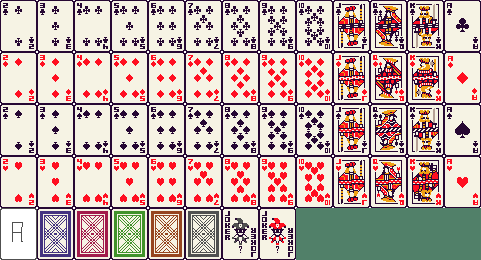
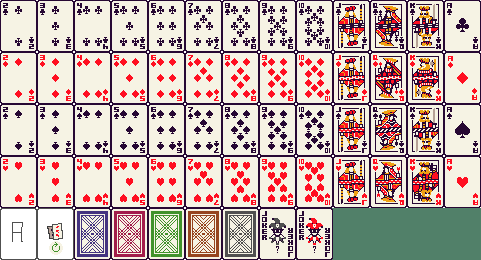
feat: stock and waste piles

Changed region(s): [[0.0624, 0.8, 0.5301, 1.0], [0.5613, 0.8, 0.7173, 1.0]]

diff --git a/src/game.c b/src/game.c
@@ -9,6 +9,7 @@
 #include "raymath.h"
 #include "rules.h"
 #include "sprites.h"
+#include "ui.h"
 
 #define NOB_STRIP_PREFIX
 #include "nob.h"
@@ -110,6 +111,79 @@ void game_free(Game game) {
 
 void game_tick(Game *game) {}
 
+static void tick_stock_pile(Game *game) {
+  Vector2 stock_pile_pos = get_stock_pile_pos();
+  Vector2 mouse_pos = get_mouse_pos();
+
+  if (IsMouseButtonPressed(MOUSE_BUTTON_LEFT) &&
+      stock_pile_pos.x < mouse_pos.x &&
+      mouse_pos.x < stock_pile_pos.x + CARD_WIDTH &&
+      stock_pile_pos.y < mouse_pos.y &&
+      mouse_pos.y < stock_pile_pos.y + CARD_HEIGHT) {
+
+    if (game->deck.stock_pile.count > 0) {
+      deck_take_from_stock(&game->deck);
+    } else {
+      deck_restock_pile(&game->deck);
+    }
+  }
+}
+
+static void draw_stock_pile(Game *game) {
+  Vector2 stock_pile_pos = get_stock_pile_pos();
+
+  if (game->deck.stock_pile.count > 0) {
+    card_render(&(Card){.state = CardClosed}, &game->sprites, stock_pile_pos);
+  } else {
+    card_render(&(Card){.state = CardRepeat}, &game->sprites, stock_pile_pos);
+  }
+}
+
+static void tick_waste_pile(Game *game) {
+  Cards *waste_pile = &game->deck.waste_pile;
+  if (waste_pile->count == 0)
+    return;
+
+  size_t last_card_index = waste_pile->count > 3 ? 2 : waste_pile->count - 1;
+  Vector2 waste_pile_pos = get_waste_pile_pos(last_card_index);
+  Vector2 mouse_pos = get_mouse_pos();
+
+  if (IsMouseButtonDown(MOUSE_BUTTON_LEFT) &&
+      game->cursor.dragged_card == NULL && waste_pile_pos.x < mouse_pos.x &&
+      mouse_pos.x < waste_pile_pos.x + CARD_WIDTH &&
+      waste_pile_pos.y < mouse_pos.y &&
+      mouse_pos.y < waste_pile_pos.y + CARD_HEIGHT) {
+
+    game->cursor.dragged_card = &waste_pile->items[waste_pile->count - 1];
+    game->cursor.dragging_offset = Vector2Subtract(mouse_pos, waste_pile_pos);
+    game->cursor.location = CardInWastePile;
+    game->cursor.location_index = waste_pile->count - 1;
+
+    da_reserve(&game->cursor.cards, 1);
+    game->cursor.cards.items[game->cursor.cards.count++] =
+        waste_pile->items[--waste_pile->count];
+  }
+}
+
+static void draw_waste_pile(Game *game) {
+  Cards waste_pile = game->deck.waste_pile;
+  Card last_cards[3];
+  size_t last_cards_len = 0;
+
+  size_t i = 0;
+  if (waste_pile.count >= 3) {
+    i = waste_pile.count - 3;
+  }
+  for (; i < waste_pile.count; i++) {
+    size_t last_cards_i = last_cards_len++;
+    last_cards[last_cards_i] = waste_pile.items[i];
+  }
+
+  for (size_t i = 0; i < last_cards_len; i++) {
+    card_render(&last_cards[i], &game->sprites, get_waste_pile_pos(i));
+  }
+}
+
 void game_draw(Game *game) {
   ClearBackground(DARKGREEN);
 
@@ -120,9 +194,14 @@ void game_draw(Game *game) {
       // TODO
     } else {
       card_render(&(Card){.state = CardEmpty}, &game->sprites,
-                  (Vector2){.x = 8, .y = 5});
+                  (Vector2){.x = (CARD_WIDTH + 4) * foundation_i + 8, .y = 5});
     }
   }
+
+  tick_stock_pile(game);
+  draw_stock_pile(game);
+  tick_waste_pile(game);
+  draw_waste_pile(game);
 
   for (size_t column_i = 0; column_i < COLUMNS_N; column_i++) {
     Cards *column = &game->deck.columns[column_i];

diff --git a/src/deck.c b/src/deck.c
@@ -1,5 +1,6 @@
 #include <stddef.h>
 #include <stdlib.h>
+#include <string.h>
 
 #include "card.h"
 #include "deck.h"
@@ -41,11 +42,21 @@ void deck_init(Deck *deck) {
 
     deck->columns[column] = column_cards;
   }
+
+  da_reserve(&deck->stock_pile, cards.count);
+  for (size_t i = 0; i < cards.count; i++) {
+    cards.items[i].state = CardOpened;
+    deck->stock_pile.items[deck->stock_pile.count++] = cards.items[i];
+  }
+
+  da_free(cards);
 }
 
 void deck_free(Deck deck) {
   for (size_t i = 0; i < COLUMNS_N; i++)
     free(deck.columns[i].items);
+
+  da_free(deck.stock_pile);
 }
 
 Cards *deck_get(Deck *deck, CardLocation loc, size_t loc_index) {
@@ -86,4 +97,22 @@ void deck_move_into(Deck *deck, Cards *source, CardLocation destination_loc,
     destination->items[destination->count++] = source->items[i];
   }
   source->count = 0;
+}
+
+void deck_take_from_stock(Deck *deck) {
+  if (deck->stock_pile.count == 0)
+    return; // double check it
+
+  da_append(&deck->waste_pile, deck->stock_pile.items[0]);
+  for (size_t i = 1; i < deck->stock_pile.count; i++) {
+    deck->stock_pile.items[i - 1] = deck->stock_pile.items[i];
+  }
+  deck->stock_pile.count--;
+}
+
+void deck_restock_pile(Deck *deck) {
+  memcpy(deck->stock_pile.items, deck->waste_pile.items,
+         sizeof(Card) * deck->waste_pile.count);
+  deck->stock_pile.count = deck->waste_pile.count;
+  deck->waste_pile.count = 0;
 }

diff --git a/src/ui.c b/src/ui.c
@@ -1,0 +1,21 @@
+#include "ui.h"
+#include "constants.h"
+#include "sprites.h"
+
+#include "raylib.h"
+#include "raymath.h"
+#include <stddef.h>
+
+Vector2 get_mouse_pos() {
+  return Vector2Scale(GetMousePosition(), (float)1 / VIRTUAL_RATIO);
+}
+
+Vector2 get_stock_pile_pos() {
+  return (Vector2){.x = VIRTUAL_SCREEN_WIDTH - CARD_WIDTH - 8 - 1, .y = 5};
+}
+
+Vector2 get_waste_pile_pos(size_t card_index) {
+  return (Vector2){.x = VIRTUAL_SCREEN_WIDTH - CARD_WIDTH - 8 - 1 -
+                        (CARD_WIDTH - 8 - 20) * (3 - card_index + 1) - 23,
+                   .y = 5};
+}

diff --git a/src/card.c b/src/card.c
@@ -6,16 +6,20 @@
 static Rectangle get_sprite(Card *card) {
   float x, y;
   switch (card->state) {
-  case CardClosed:
-    x = 1 * CARD_WIDTH;
-    y = 4 * CARD_HEIGHT;
-    break;
   case CardOpened:
     x = card->rank * CARD_WIDTH;
     y = card->suit * CARD_HEIGHT;
     break;
   case CardEmpty:
     x = 0;
+    y = 4 * CARD_HEIGHT;
+    break;
+  case CardRepeat:
+    x = 1 * CARD_WIDTH;
+    y = 4 * CARD_HEIGHT;
+    break;
+  case CardClosed:
+    x = 2 * CARD_WIDTH;
     y = 4 * CARD_HEIGHT;
     break;
   }

diff --git a/src/card.h b/src/card.h
@@ -6,7 +6,7 @@
 
 #include "sprites.h"
 
-typedef enum { CardClosed, CardOpened, CardEmpty } CardState;
+typedef enum { CardClosed, CardOpened, CardEmpty, CardRepeat } CardState;
 typedef enum { Clubs, Diamonds, Spades, Hearts } CardSuit;
 typedef enum { R2, R3, R4, R5, R6, R7, R8, R9, R10, J, G, K, A } CardRank;
 

diff --git a/src/deck.h b/src/deck.h
@@ -24,4 +24,6 @@ void deck_open_last(Deck *deck, CardLocation loc, size_t loc_index);
 void deck_move_into(Deck *deck, Cards *source, CardLocation destination_loc,
                     size_t destination_index);
 
+void deck_take_from_stock(Deck *deck);
+void deck_restock_pile(Deck *deck);
 #endif // !DECK_H_

diff --git a/src/ui.h b/src/ui.h
@@ -1,0 +1,12 @@
+#ifndef UI_H_
+#define UI_H_
+
+#include "raylib.h"
+#include <stddef.h>
+
+Vector2 get_mouse_pos();
+
+Vector2 get_stock_pile_pos();
+Vector2 get_waste_pile_pos(size_t card_index);
+
+#endif // !UI_H_
